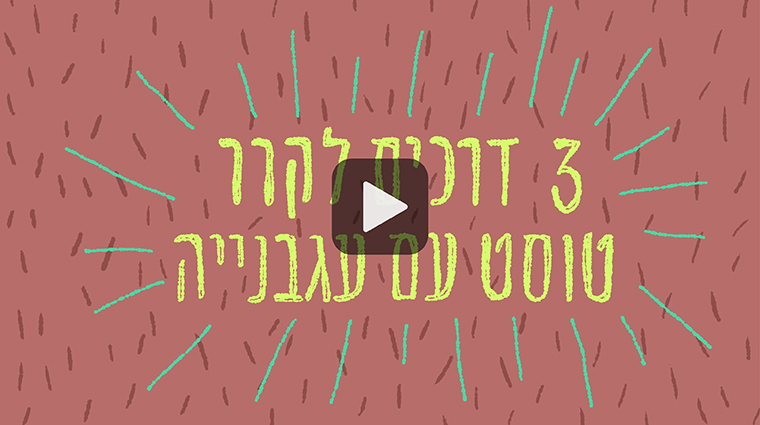
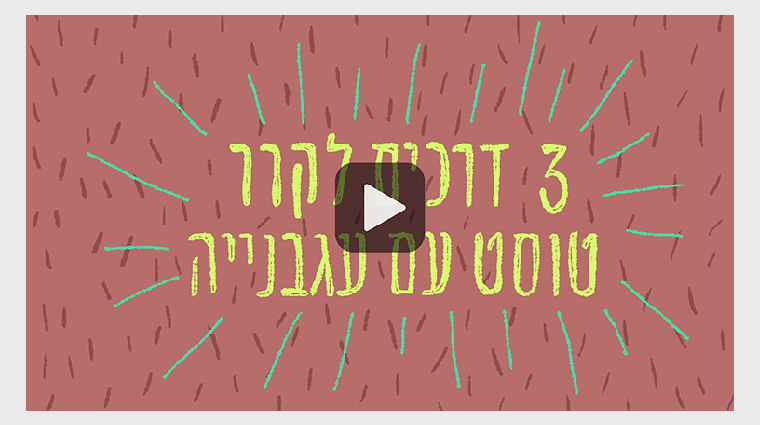
video2

diff --git a/index.html b/index.html
@@ -192,7 +192,7 @@
                 <div class="cbp-item motion">
                     <a href="https://www.youtube.com/watch?v=xwkovjUO7c4&feature=youtu.be&vq=hd1080" class="cbp-caption cbp-lightbox" data-title="iDevices<br>by Tiberiu Neamu">
                         <div class="cbp-caption-defaultWrap">
-                            <img src="gallery/760X380.png" alt="">
+                            <img src="gallery/video2-small.jpg" alt="">
                         </div>
                         <div class="cbp-caption-activeWrap">
                         </div>
